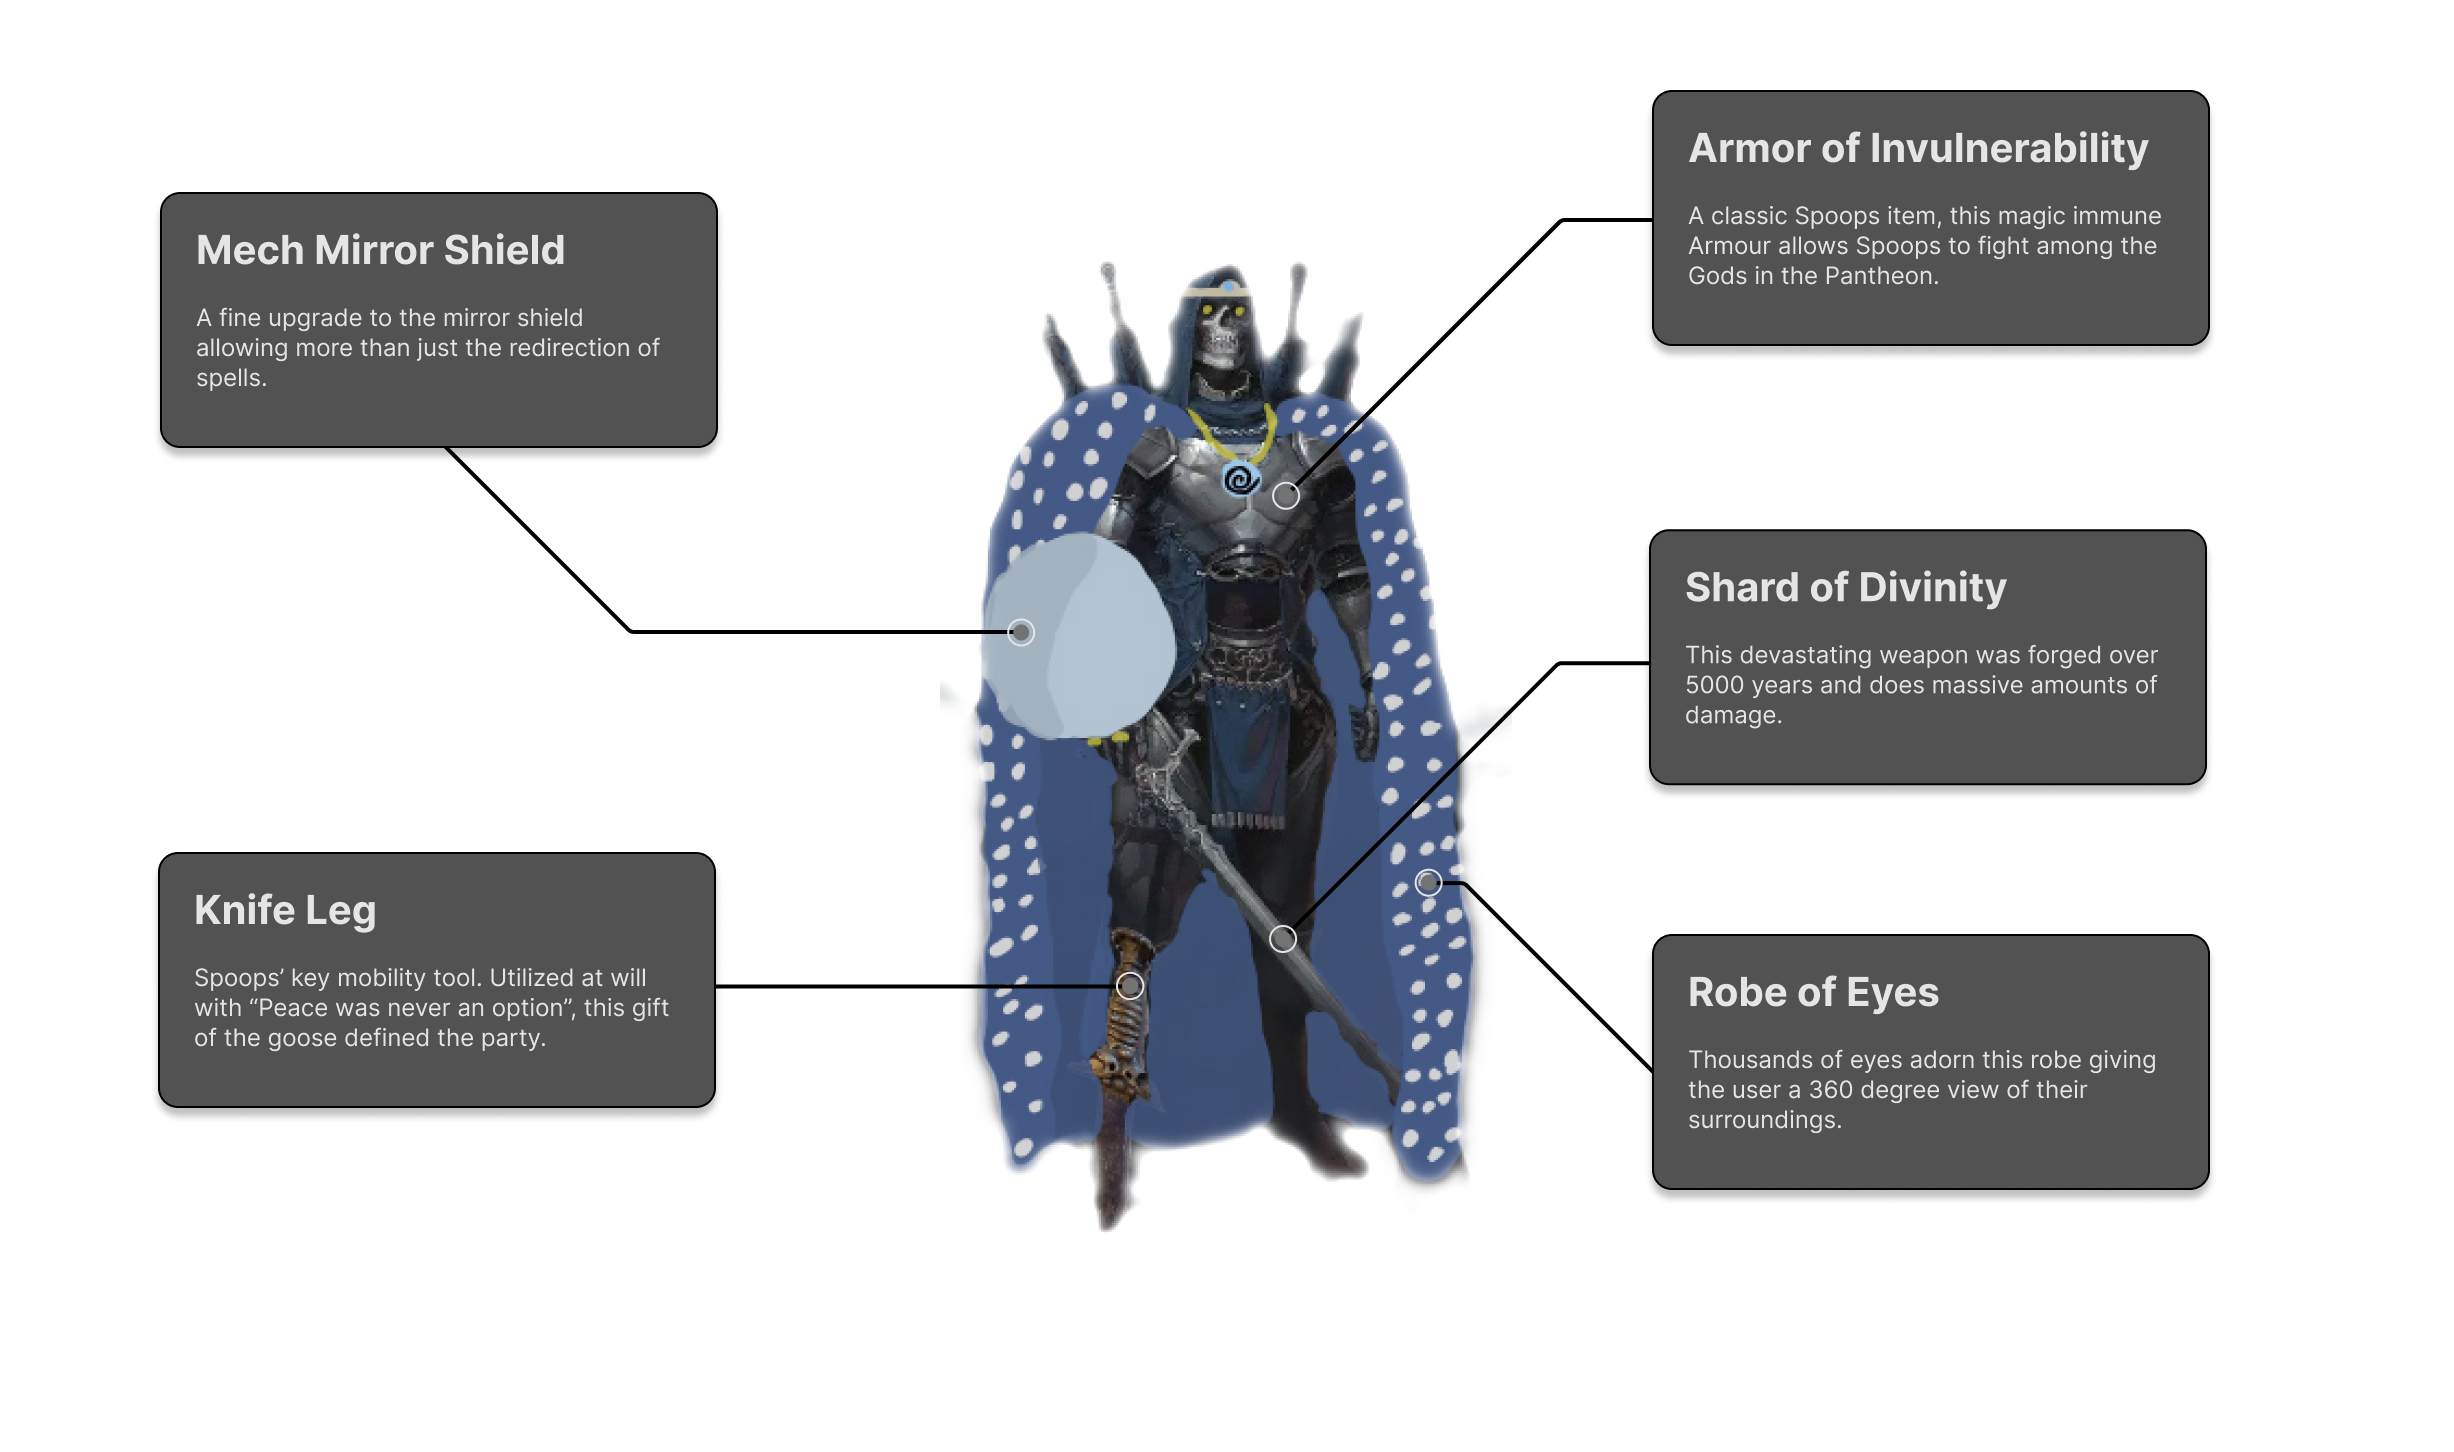
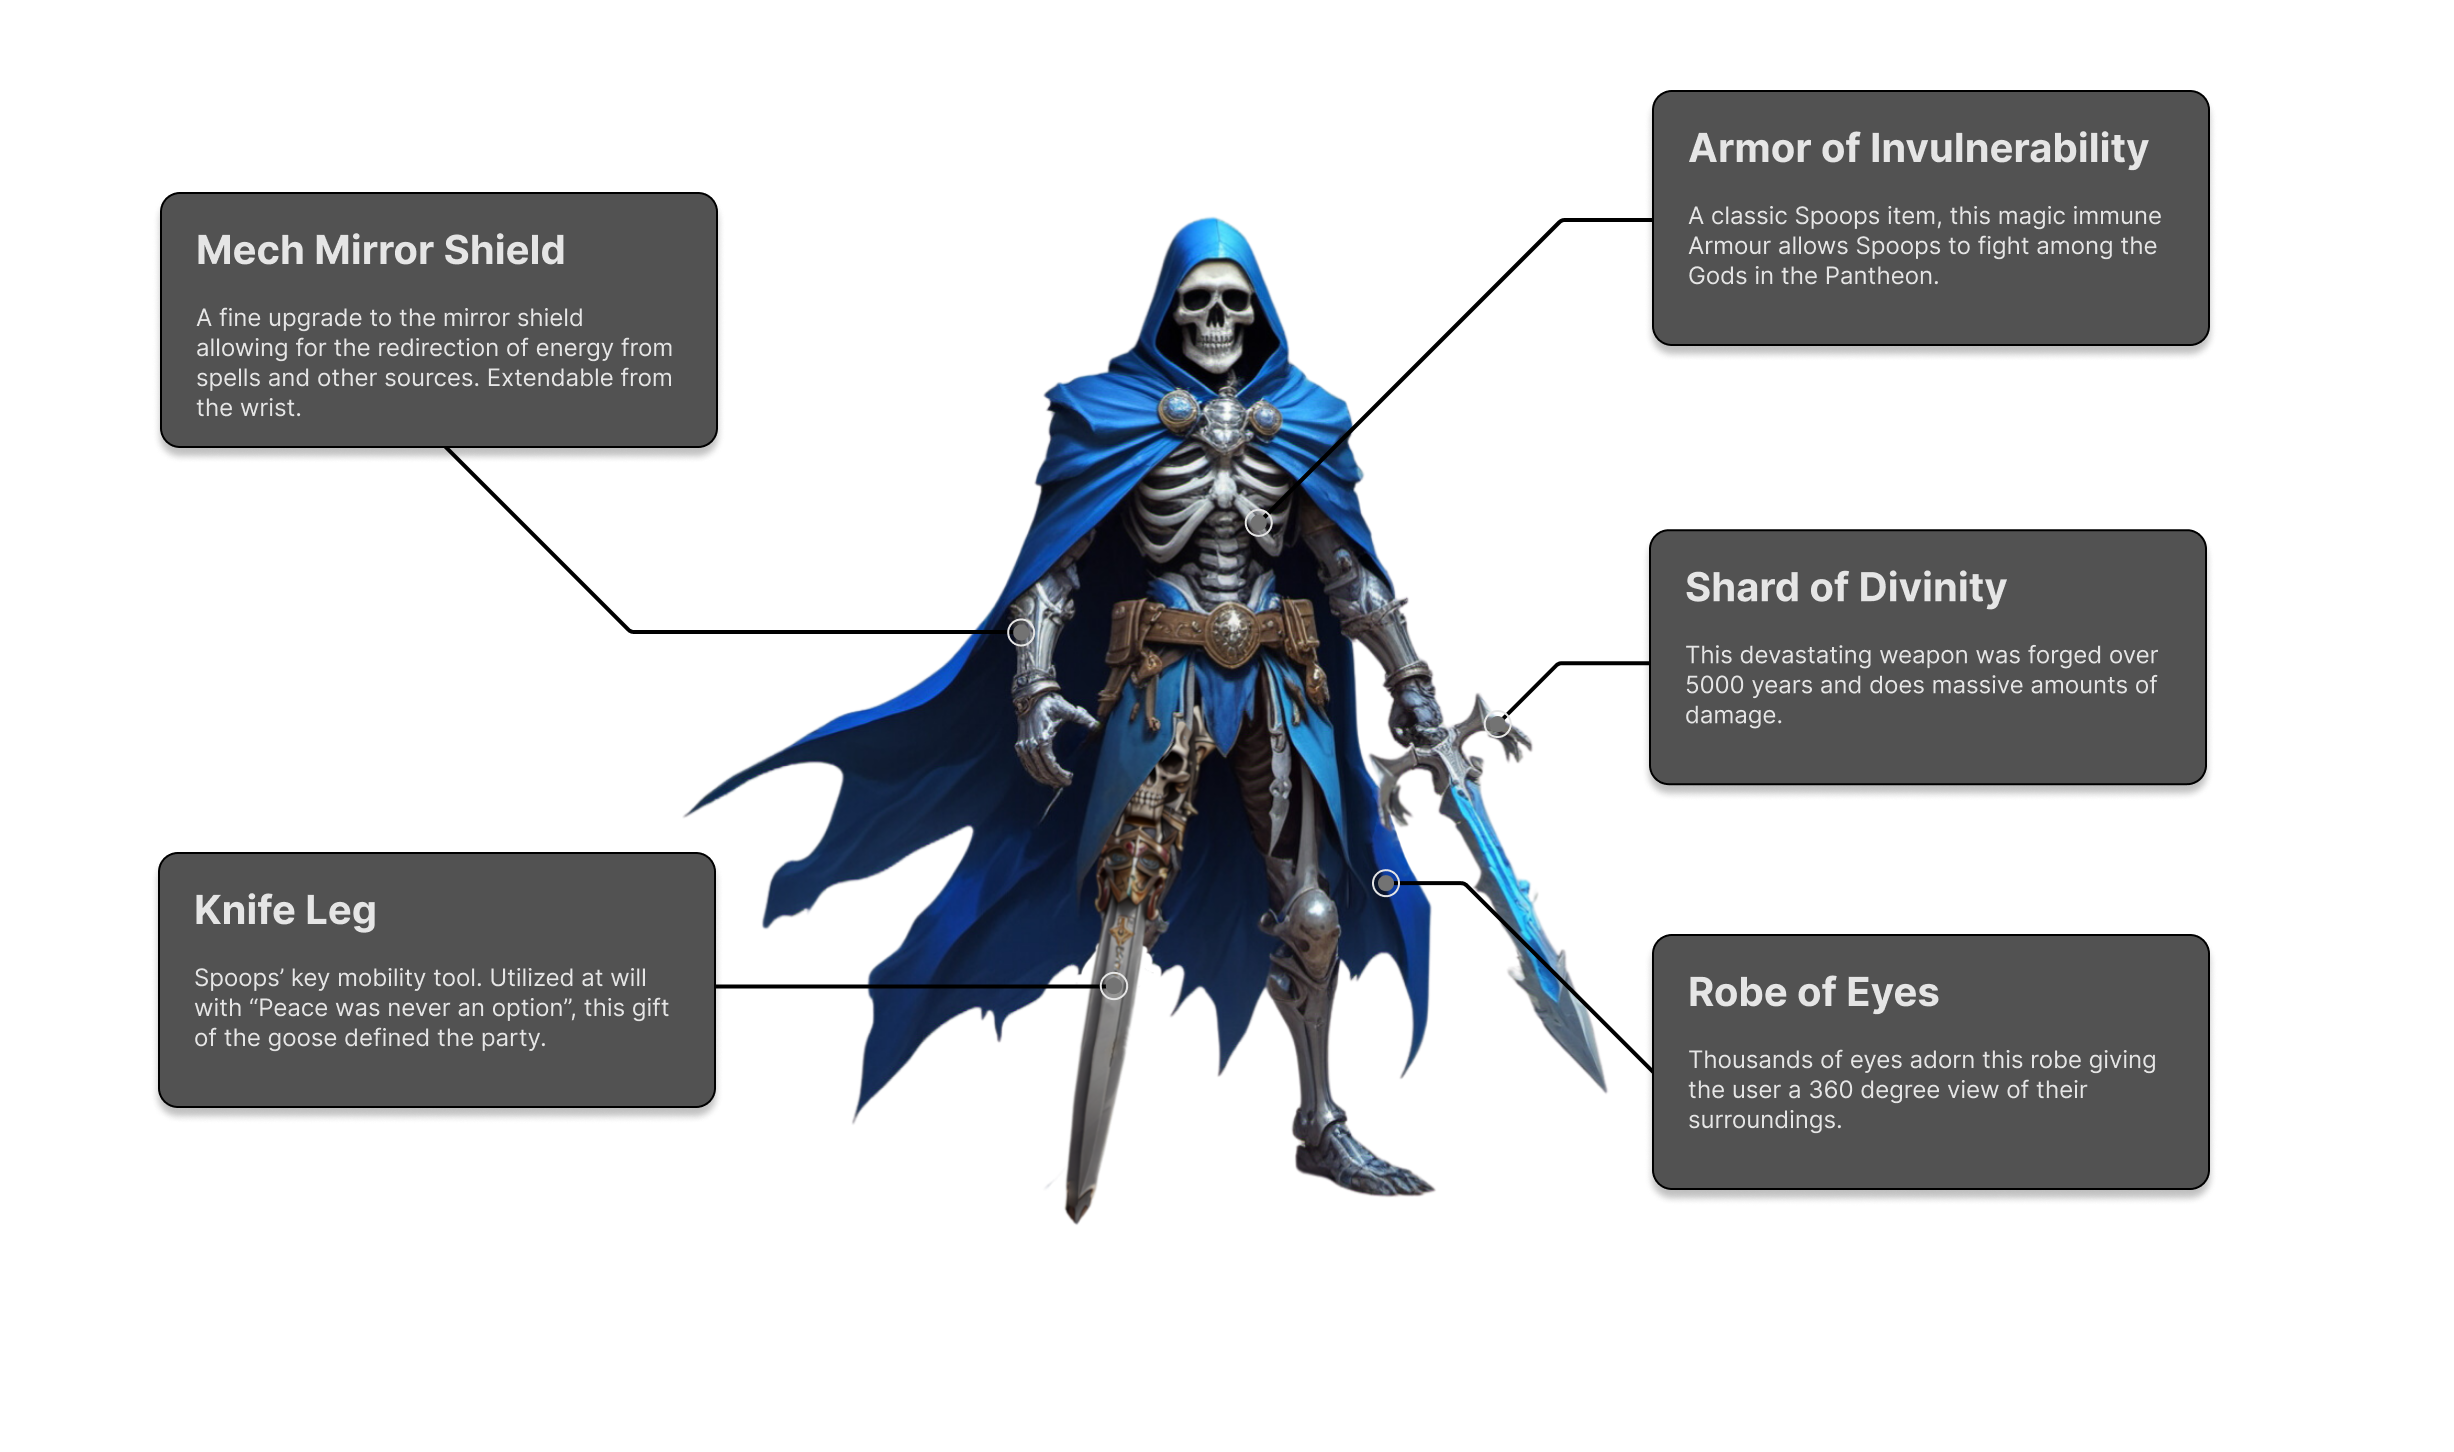
spoops asset update + ordering profiles

Changed region(s): [[0.3097, 0.155, 0.6504, 0.8678], [0.1239, 0.2169, 0.2787, 0.2789], [0.2787, 0.5269, 0.3097, 0.5579]]

diff --git a/app/globals.css b/app/globals.css
@@ -88,35 +88,40 @@ img.leaflet-marker-shadow.leaflet-zoom-animated {
 /* spoops */
 
 .spoops-clip-path-shield {
-  width: 10%;
-  height: 18%;
+  width: 40%;
+  height: 80%;
   background-color: transparent;
-  clip-path: ellipse(50% 50% at 50% 50%);
+  clip-path: polygon(33% 38%, 37% 35%, 37% 35%, 39% 36%, 39% 36%, 37% 45%, 37% 45%, 41% 49%, 41% 49%, 39% 55%, 39% 55%, 36% 56%, 36% 56%, 33% 53%, 33% 53%, 33% 47%, 33% 47%, 33% 43%, 33% 43%);
 }
 
 .spoops-clip-path-sword {
-  width: 22%;
-  height: 50%;
-  transform: rotate(10deg);
+  width: 40%;
+  height: 80%;
   background-color: transparent;
-  clip-path: polygon(81% 84%, 83% 82%, 41% 55%, 47% 51%, 42% 49%, 31% 57%, 28% 59%, 32% 61%, 36% 57%);
+  clip-path: polygon(92% 86%, 90% 78%, 90% 78%, 90% 78%, 90% 78%, 79% 57%, 79% 57%, 79% 57%, 79% 57%, 80% 54%, 80% 54%, 80% 54%, 80% 54%, 78% 52%, 78% 52%, 78% 52%, 78% 52%, 81% 51%, 81% 51%, 81% 51%, 81% 51%, 82% 53%, 82% 53%, 82% 53%, 82% 53%, 85% 52%, 85% 52%, 85% 52%, 85% 52%, 81% 49%, 81% 49%, 81% 49%, 81% 49%, 79% 47%, 79% 47%, 79% 47%, 79% 47%, 78% 49%, 78% 49%, 78% 49%, 78% 49%, 76% 51%, 76% 51%, 76% 51%, 76% 51%, 74% 47%, 74% 47%, 74% 47%, 74% 47%, 71% 48%, 71% 48%, 71% 48%, 71% 48%, 74% 52%, 74% 52%, 74% 52%, 74% 52%, 72% 52%, 72% 52%, 72% 52%, 72% 52%, 71% 53%, 71% 53%, 71% 53%, 71% 53%, 68% 53%, 68% 53%, 68% 53%, 68% 53%, 70% 55%, 70% 55%, 70% 55%, 70% 55%, 69% 59%, 69% 59%, 69% 59%, 69% 59%, 72% 59%, 72% 59%, 72% 59%, 72% 59%, 71% 56%, 71% 56%, 71% 56%, 71% 56%, 73% 54%, 73% 54%, 73% 54%, 73% 54%, 75% 56%, 75% 56%, 75% 56%, 75% 56%, 76% 58%, 76% 58%, 76% 58%, 76% 58%, 79% 66%, 79% 66%, 79% 66%, 79% 66%, 82% 71%, 82% 71%, 82% 71%, 82% 71%, 84% 76%, 84% 76%, 84% 76%, 84% 76%, 85% 79%, 85% 79%, 85% 79%, 85% 79%);
 }
 
-.spoops-clip-path-armor {
-  width: 19%;
-  height: 70%;
+.spoops-clip-path-leg {
+  width: 40%;
+  height: 80%;
   background-color: transparent;
-  clip-path: polygon(21% 33%, 35% 36%, 40% 44%, 68% 45%, 67% 32%, 82% 39%, 87% 39%, 82% 26%, 65% 23%, 58% 21%, 56% 13%, 45% 12%, 43% 18%, 27% 22%, 20% 28%);
+  clip-path: polygon(39% 99%, 41% 96%, 41% 96%, 45% 78%, 45% 78%, 47% 68%, 47% 68%, 49% 65%, 49% 65%, 50% 61%, 50% 61%, 53% 52%, 53% 52%, 50% 49%, 50% 49%, 49% 52%, 49% 52%, 46% 56%, 46% 56%, 43% 60%, 43% 60%, 42% 63%, 42% 63%, 42% 67%, 42% 67%, 42% 70%, 42% 70%, 39% 89%, 39% 89%, 38% 96%, 38% 96%);
+}
+
+
+.spoops-clip-path-armor {
+  width: 40%;
+  height: 80%;
+  background-color: transparent;
+  clip-path: polygon(49% 23%, 44% 28%, 44% 28%, 36% 35%, 36% 35%, 39% 36%, 39% 36%, 46% 37%, 46% 37%, 54% 39%, 54% 39%, 61% 38%, 61% 38%, 61% 31%, 61% 31%, 66% 40%, 66% 40%, 71% 46%, 71% 46%, 75% 45%, 75% 45%, 72% 39%, 72% 39%, 69% 33%, 69% 33%, 61% 25%, 61% 25%, 57% 22%, 57% 22%, 56% 17%, 56% 17%, 59% 14%, 59% 14%, 58% 11%, 58% 11%, 48% 11%, 48% 11%, 48% 12%, 48% 12%, 53% 17%, 53% 17%, 52% 20%, 52% 20%);
 }
 
 .spoops-clip-path-robe {
-  width: 19%;
-  height: 70%;
+  width: 40%;
+  height: 80%;
   background-color: transparent;
-  clip-path: polygon(69% 76%, 85% 85%, 85% 85%, 89% 82%, 89% 82%, 68% 71%, 68% 71%, 74% 54%, 74% 54%, 83% 54%, 83% 54%, 82% 39%, 82% 39%, 79% 28%, 79% 28%, 84% 24%, 84% 24%, 93% 40%, 93% 40%, 98% 55%, 98% 55%, 98% 90%, 98% 90%, 89% 91%, 89% 91%, 70% 85%, 70% 85%, 49% 87%, 49% 87%, 30% 87%, 30% 87%, 34% 73%, 34% 73%, 37% 69%, 37% 69%, 24% 68%, 24% 68%, 21% 87%, 21% 87%, 5% 88%, 5% 88%, 1% 51%, 1% 51%, 20% 52%, 20% 52%, 24% 60%, 24% 60%, 24% 64%, 24% 64%, 42% 67%, 42% 67%, 45% 64%, 45% 64%, 53% 67%, 53% 67%, 59% 83%, 59% 83%, 69% 82%, 69% 82%);
+  clip-path: polygon(71% 85%, 74% 81%, 74% 81%, 74% 76%, 74% 76%, 75% 67%, 75% 67%, 72% 61%, 72% 61%, 69% 59%, 69% 59%, 69% 56%, 69% 56%, 67% 53%, 67% 53%, 67% 46%, 67% 46%, 64% 46%, 64% 46%, 64% 54%, 64% 54%, 63% 58%, 63% 58%, 58% 60%, 58% 60%, 56% 53%, 56% 53%, 53% 54%, 53% 54%, 51% 63%, 51% 63%, 49% 72%, 49% 72%, 50% 77%, 50% 77%, 52% 77%, 52% 77%, 54% 84%, 54% 84%, 58% 76%, 58% 76%, 58% 69%, 58% 69%, 58% 63%, 58% 63%, 64% 61%, 64% 61%, 63% 65%, 63% 65%, 65% 69%, 65% 69%, 65% 73%, 65% 73%, 67% 75%, 67% 75%, 70% 73%, 70% 73%, 71% 75%, 71% 75%, 73% 78%, 73% 78%, 72% 82%, 72% 82%);
 }
-
-/* bazz */
 
 .bazzdos-clip-path-boots {
   width: 25%;

diff --git a/components/character.tsx b/components/character.tsx
@@ -2,7 +2,6 @@
 
 import { useState } from "react";
 import Image from "next/image";
-import Link from 'next/link';
 import { Button } from "@/components/ui/button";
 import { Accordion, AccordionContent, AccordionItem, AccordionTrigger } from "@/components/ui/accordion"
 
@@ -85,7 +84,7 @@ export function CharacterProfile({ name, full_title, class_name, subclass, backg
             </div>
             <Accordion type="single" collapsible className="w-full text-center">
                 <AccordionItem value="item-1">
-                <AccordionTrigger className="PlayerProfile">Show Player Profile</AccordionTrigger>
+                    <AccordionTrigger className="PlayerProfile">Show Player Profile</AccordionTrigger>
                     <AccordionContent>
                         <CharacterHighlights name={name} />
                     </AccordionContent>
@@ -105,11 +104,11 @@ function CharacterHighlights(name: any): JSX.Element {
     // armour highlights
     if (name == "Spoops") {
         armorHighlights = <>
-            <div className="absolute top-[35%] left-[40%] spoops-clip-path-shield" onMouseEnter={() => setVisibleImage(2)} onMouseLeave={() => setVisibleImage(1)} />
-            <div className="absolute top-[28%] left-[39%] spoops-clip-path-sword" onMouseEnter={() => setVisibleImage(3)} onMouseLeave={() => setVisibleImage(1)} />
-            <div className="absolute top-[12%] left-[40%] spoops-clip-path-armor" onMouseEnter={() => setVisibleImage(4)} onMouseLeave={() => setVisibleImage(1)} />
-            <div className="absolute top-[43%] left-[46%] w-[8%] h-[6%]" onMouseEnter={() => setVisibleImage(5)} onMouseLeave={() => setVisibleImage(1)} />
-            <div className="absolute top-[18%] left-[41%] spoops-clip-path-robe" onMouseEnter={() => setVisibleImage(6)} onMouseLeave={() => setVisibleImage(1)} />
+            <div className="absolute top-[9%] left-[28%] spoops-clip-path-shield" onMouseEnter={() => setVisibleImage(2)} onMouseLeave={() => setVisibleImage(1)} />
+            <div className="absolute top-[9%] left-[28%] spoops-clip-path-leg" onMouseEnter={() => setVisibleImage(3)} onMouseLeave={() => setVisibleImage(1)} />
+            <div className="absolute top-[10%] left-[28%] spoops-clip-path-armor" onMouseEnter={() => setVisibleImage(4)} onMouseLeave={() => setVisibleImage(1)} />
+            <div className="absolute top-[10%] left-[29%] spoops-clip-path-sword" onMouseEnter={() => setVisibleImage(5)} onMouseLeave={() => setVisibleImage(1)} />
+            <div className="absolute top-[8%] left-[28.5%] spoops-clip-path-robe" onMouseEnter={() => setVisibleImage(6)} onMouseLeave={() => setVisibleImage(1)} />
         </>
     }
 
